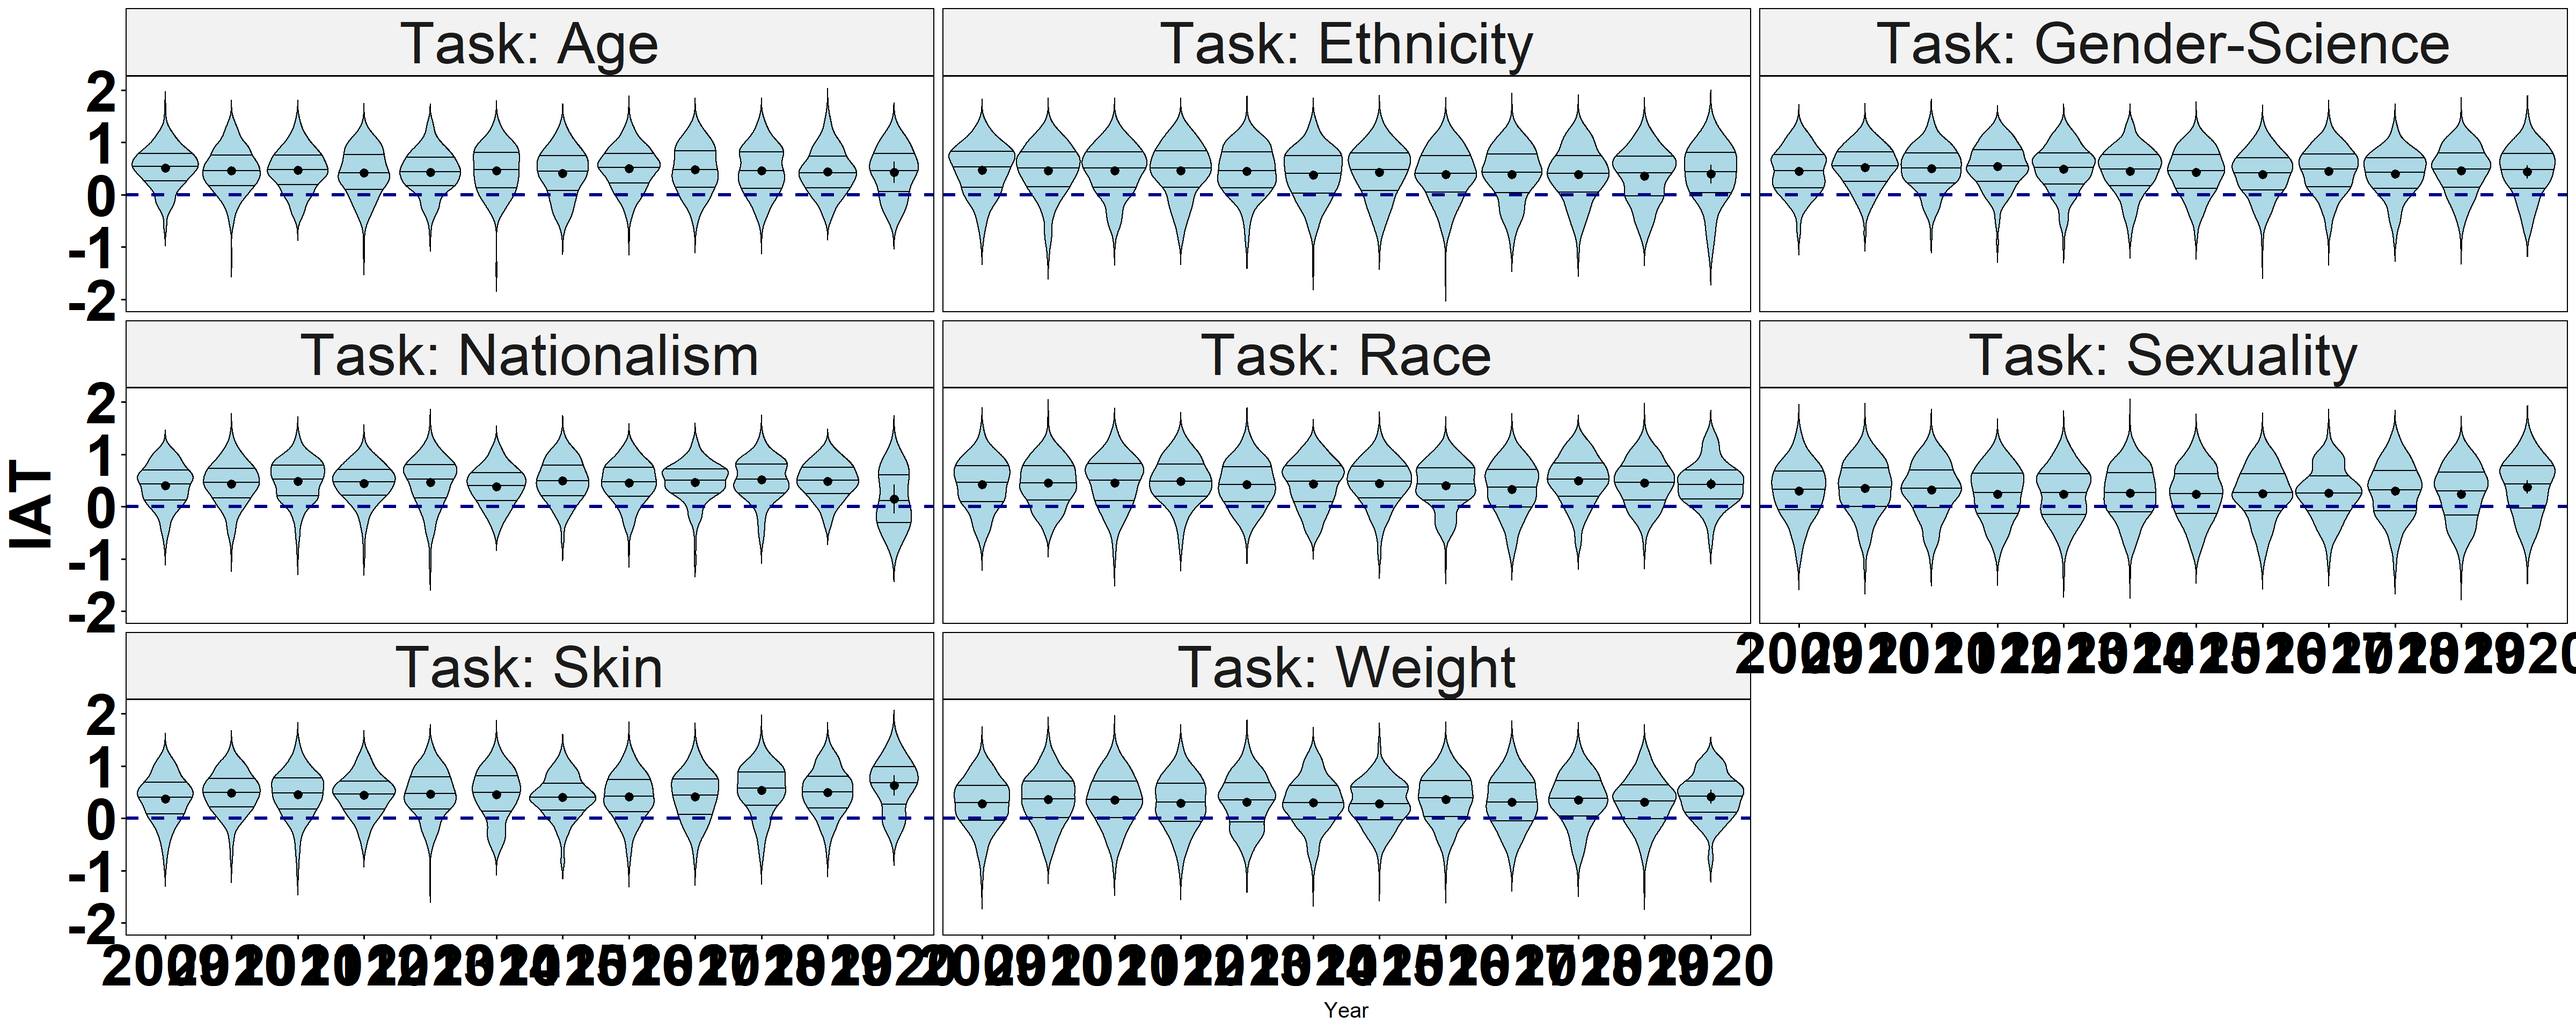
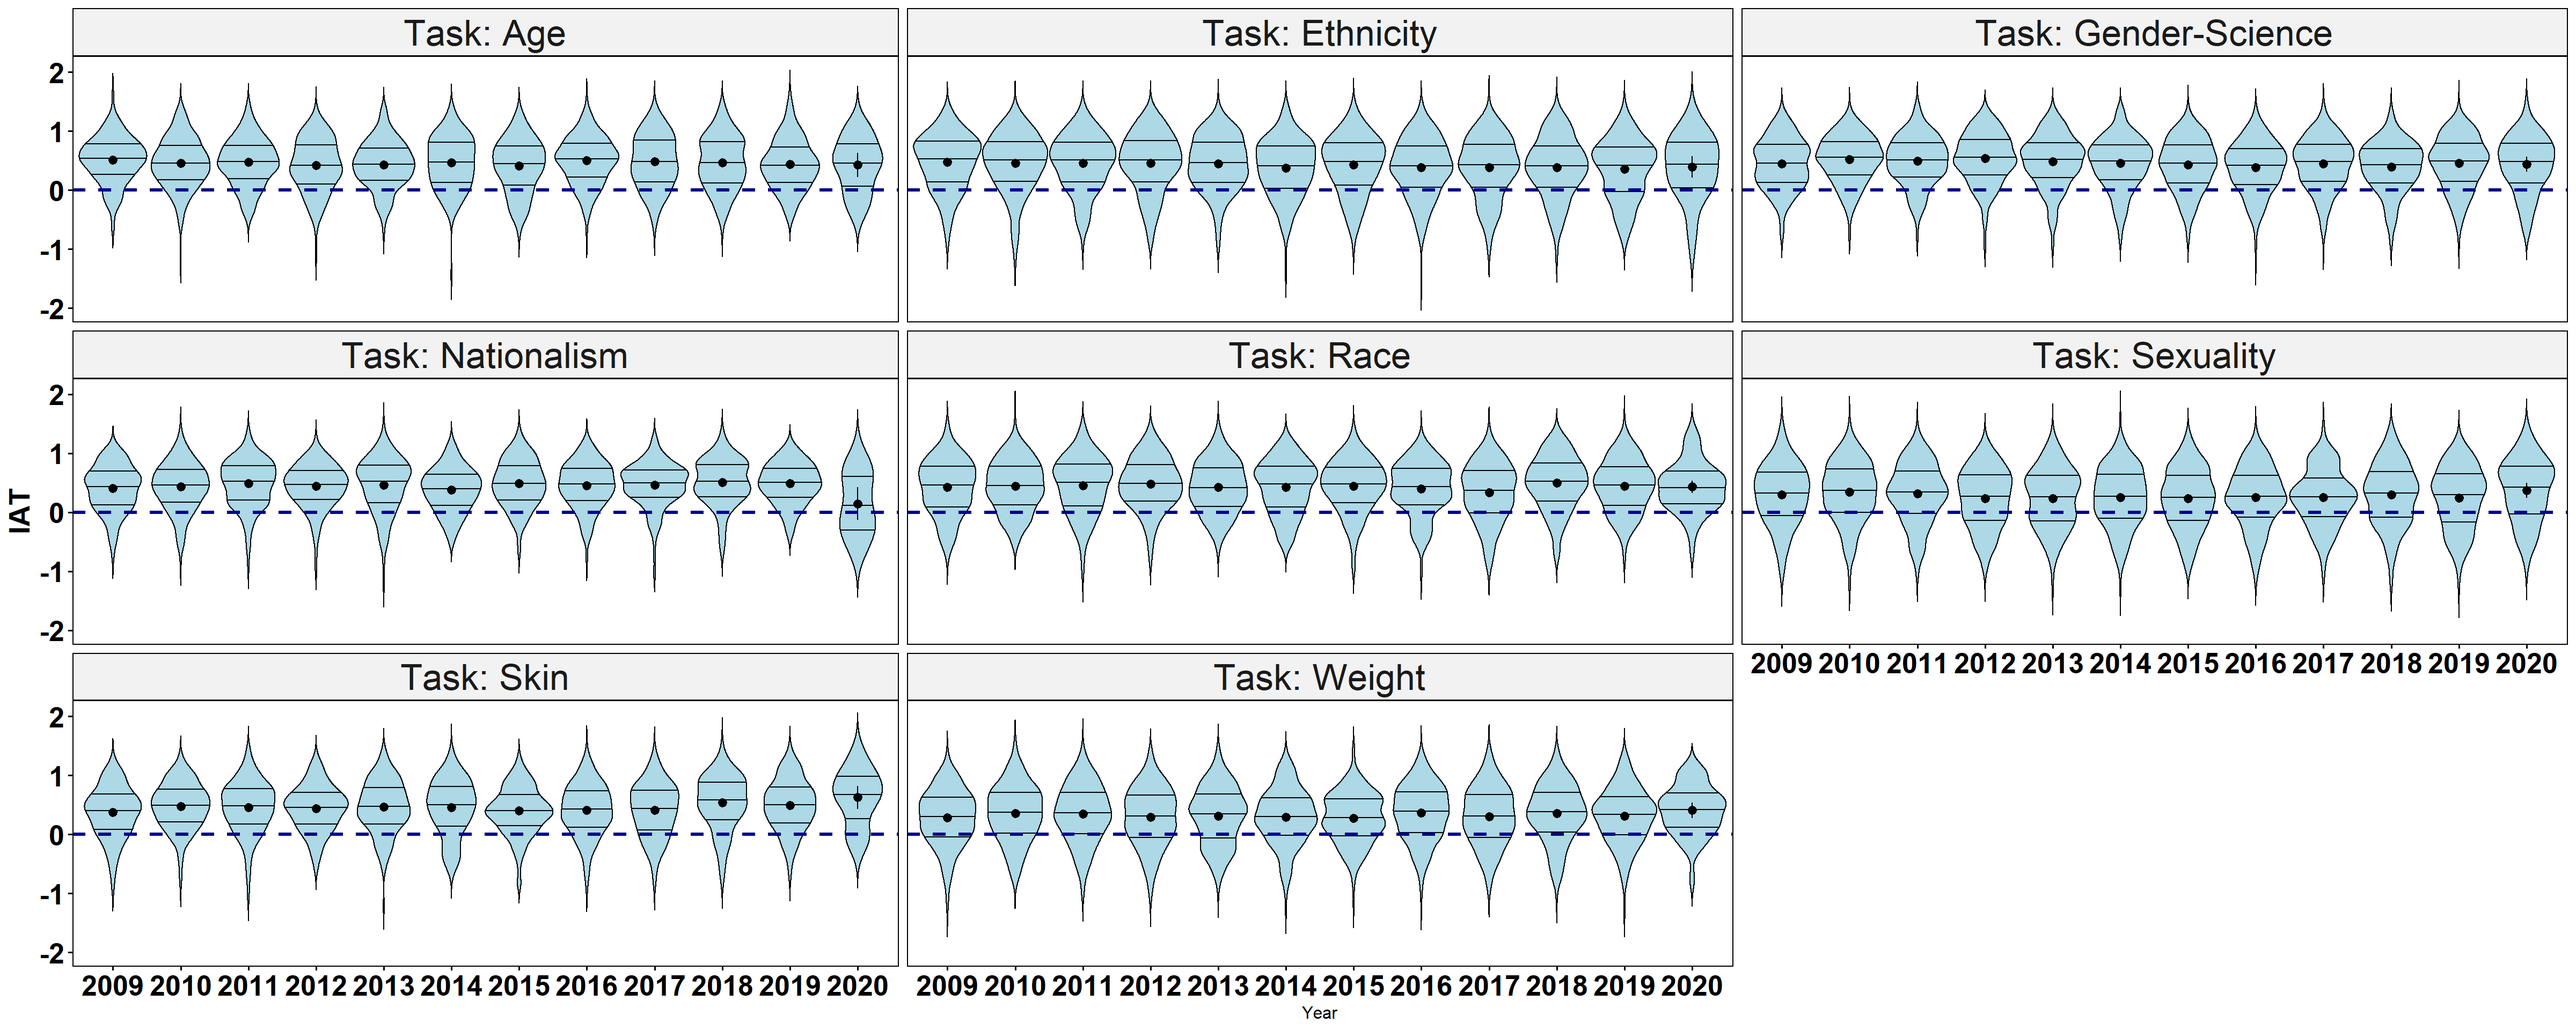
update plots

diff --git a/public/post/biases-in-israel/index.html b/public/post/biases-in-israel/index.html
@@ -59,7 +59,7 @@
   "headline": "Biases in Israel",
   "description" : "Read about the implict and explicit biases in Israel",
   "inLanguage" : "en",
-  "wordCount":  2367 ,
+  "wordCount":  2364 ,
   "datePublished" : "2020-05-20T00:00:00",
   "dateModified" : "2020-05-20T00:00:00",
   "image" : "\/img\/logo.png",
@@ -239,7 +239,7 @@
   
   
   
-    &nbsp;|&nbsp;<i class="fas fa-book"></i>&nbsp;2367&nbsp;words
+    &nbsp;|&nbsp;<i class="fas fa-book"></i>&nbsp;2364&nbsp;words
   
   
     
@@ -510,16 +510,16 @@ all_diff_thermo &lt;- bind_rows(race_diff_thermo, skin_diff_thermo,
 pp &lt;- pp + geom_hline(yintercept=0, linetype=&quot;dashed&quot;, 
                 color = &quot;darkblue&quot;, size=1.2)
 
-pp &lt;- pp + font(&quot;title&quot;, size = 40, color = &quot;black&quot;, face = &quot;bold&quot;)+
-font(&quot;legend.text&quot;, size = 40, color = &quot;black&quot;, face = &quot;bold&quot;)+
-font(&quot;xlab&quot;, size = 15, color = &quot;black&quot;)+
-font(&quot;ylab&quot;, size = 40, color = &quot;black&quot;, face = &quot;bold&quot;)+
-font(&quot;xy.text&quot;, size = 40, color = &quot;black&quot;, face = &quot;bold&quot;)
+pp &lt;- pp + font(&quot;title&quot;, size = 20, color = &quot;black&quot;, face = &quot;bold&quot;)+
+font(&quot;legend.text&quot;, size = 20, color = &quot;black&quot;, face = &quot;bold&quot;)+
+font(&quot;xlab&quot;, size = 12, color = &quot;black&quot;)+
+font(&quot;ylab&quot;, size = 20, color = &quot;black&quot;, face = &quot;bold&quot;)+
+font(&quot;xy.text&quot;, size = 20, color = &quot;black&quot;, face = &quot;bold&quot;)
 pp &lt;- pp +theme(legend.position=&quot;none&quot;)
 
 facet(pp , facet.by = &quot;Task&quot;,
   short.panel.labs = FALSE,   # Allow long labels in panels
-  panel.labs.font = list(size = 40)
+  panel.labs.font = list(size = 25)
 )</code></pre>
 <p><img src="/post/2020-05-20-biases-in-israel.en_files/figure-html/unnamed-chunk-10-1.png" width="2400" /></p>
 </div>
@@ -538,18 +538,17 @@ facet(pp , facet.by = &quot;Task&quot;,
 pp &lt;- pp + geom_hline(yintercept=4, linetype=&quot;dashed&quot;, 
                 color = &quot;darkblue&quot;, size=1.2)
 
-pp &lt;- pp + font(&quot;title&quot;, size = 40, color = &quot;black&quot;, face = &quot;bold&quot;)+
-font(&quot;legend.text&quot;, size = 40, color = &quot;black&quot;, face = &quot;bold&quot;)+
-font(&quot;xlab&quot;, size = 25, color = &quot;black&quot;)+
-font(&quot;ylab&quot;, size = 40, color = &quot;black&quot;, face = &quot;bold&quot;)+
-font(&quot;xy.text&quot;, size = 40, color = &quot;black&quot;, face = &quot;bold&quot;)
+pp &lt;- pp + font(&quot;title&quot;, size = 20, color = &quot;black&quot;, face = &quot;bold&quot;)+
+font(&quot;legend.text&quot;, size = 20, color = &quot;black&quot;, face = &quot;bold&quot;)+
+font(&quot;xlab&quot;, size = 12, color = &quot;black&quot;)+
+font(&quot;ylab&quot;, size = 20, color = &quot;black&quot;, face = &quot;bold&quot;)+
+font(&quot;xy.text&quot;, size = 20, color = &quot;black&quot;, face = &quot;bold&quot;)
 pp &lt;- pp +theme(legend.position=&quot;none&quot;)
 
 facet(pp , facet.by = &quot;Task&quot;,
   short.panel.labs = FALSE,   # Allow long labels in panels
-  panel.labs.font = list(size = 40)
-)</code></pre>
-<p><img src="/post/2020-05-20-biases-in-israel.en_files/figure-html/unnamed-chunk-11-1.png" width="3360" /></p>
+  panel.labs.font = list(size = 25))</code></pre>
+<p><img src="/post/2020-05-20-biases-in-israel.en_files/figure-html/unnamed-chunk-11-1.png" width="2400" /></p>
 </div>
 <div id="self-report-feeling-thermometer-difference" class="section level3">
 <h3>Self-Report: Feeling Thermometer Difference</h3>
@@ -566,18 +565,17 @@ facet(pp , facet.by = &quot;Task&quot;,
 pp &lt;- pp + geom_hline(yintercept=0, linetype=&quot;dashed&quot;, 
                 color = &quot;darkblue&quot;, size=1.2)
 
-pp &lt;- pp + font(&quot;title&quot;, size = 40, color = &quot;black&quot;, face = &quot;bold&quot;)+
-font(&quot;legend.text&quot;, size = 40, color = &quot;black&quot;, face = &quot;bold&quot;)+
-font(&quot;xlab&quot;, size = 25, color = &quot;black&quot;)+
-font(&quot;ylab&quot;, size = 40, color = &quot;black&quot;, face = &quot;bold&quot;)+
-font(&quot;xy.text&quot;, size = 40, color = &quot;black&quot;, face = &quot;bold&quot;)
+pp &lt;- pp + font(&quot;title&quot;, size = 20, color = &quot;black&quot;, face = &quot;bold&quot;)+
+font(&quot;legend.text&quot;, size = 20, color = &quot;black&quot;, face = &quot;bold&quot;)+
+font(&quot;xlab&quot;, size = 12, color = &quot;black&quot;)+
+font(&quot;ylab&quot;, size = 20, color = &quot;black&quot;, face = &quot;bold&quot;)+
+font(&quot;xy.text&quot;, size = 20, color = &quot;black&quot;, face = &quot;bold&quot;)
 pp &lt;- pp +theme(legend.position=&quot;none&quot;)
 
 facet(pp , facet.by = &quot;Task&quot;,
   short.panel.labs = FALSE,   # Allow long labels in panels
-  panel.labs.font = list(size = 40)
-)</code></pre>
-<p><img src="/post/2020-05-20-biases-in-israel.en_files/figure-html/unnamed-chunk-12-1.png" width="3360" /></p>
+  panel.labs.font = list(size = 25))</code></pre>
+<p><img src="/post/2020-05-20-biases-in-israel.en_files/figure-html/unnamed-chunk-12-1.png" width="2400" /></p>
 </div>
 </div>
 <div id="the-ethnicity-iat" class="section level2">
@@ -693,14 +691,12 @@ pp &lt;- ggviolin(ethnic1, x = &quot;ethnic.c&quot;, y = c(&quot;IAT&quot;), com
 pp &lt;- pp + geom_hline(yintercept = 0, linetype = &quot;dashed&quot;, color = &quot;darkblue&quot;, 
     size = 1.2)
 
-pp &lt;- pp + font(&quot;title&quot;, size = 40, color = &quot;black&quot;, face = &quot;bold&quot;) + 
-    font(&quot;legend.text&quot;, size = 40, color = &quot;black&quot;, face = &quot;bold&quot;) + 
-    font(&quot;xlab&quot;, size = 25, color = &quot;black&quot;) + font(&quot;ylab&quot;, size = 40, 
-    color = &quot;black&quot;, face = &quot;bold&quot;) + font(&quot;xy.text&quot;, size = 40, 
+pp &lt;- pp + font(&quot;title&quot;, size = 20, color = &quot;black&quot;, face = &quot;bold&quot;) + 
+    font(&quot;legend.text&quot;, size = 20, color = &quot;black&quot;, face = &quot;bold&quot;) + 
+    font(&quot;xlab&quot;, size = 12, color = &quot;black&quot;) + font(&quot;ylab&quot;, size = 20, 
+    color = &quot;black&quot;, face = &quot;bold&quot;) + font(&quot;xy.text&quot;, size = 20, 
     color = &quot;black&quot;, face = &quot;bold&quot;)
-pp &lt;- pp + theme(legend.position = &quot;none&quot;)
-pp</code></pre>
-<p><img src="/post/2020-05-20-biases-in-israel.en_files/figure-html/unnamed-chunk-14-1.png" width="3360" /></p>
+pp &lt;- pp + theme(legend.position = &quot;none&quot;)</code></pre>
 <p>We can see that, indeed, the implicit bias varies across the different ethnicities, and is weaker for Mizrahi Israelis. Still, <em>all ethnicity groups</em> in the Israeli society show the same direction of bias.</p>
 </div>
 <div id="summary" class="section level2">

diff --git a/content/post/2020-05-20-biases-in-israel.en.html b/content/post/2020-05-20-biases-in-israel.en.html
@@ -273,16 +273,16 @@ all_diff_thermo &lt;- bind_rows(race_diff_thermo, skin_diff_thermo,
 pp &lt;- pp + geom_hline(yintercept=0, linetype=&quot;dashed&quot;, 
                 color = &quot;darkblue&quot;, size=1.2)
 
-pp &lt;- pp + font(&quot;title&quot;, size = 40, color = &quot;black&quot;, face = &quot;bold&quot;)+
-font(&quot;legend.text&quot;, size = 40, color = &quot;black&quot;, face = &quot;bold&quot;)+
-font(&quot;xlab&quot;, size = 15, color = &quot;black&quot;)+
-font(&quot;ylab&quot;, size = 40, color = &quot;black&quot;, face = &quot;bold&quot;)+
-font(&quot;xy.text&quot;, size = 40, color = &quot;black&quot;, face = &quot;bold&quot;)
+pp &lt;- pp + font(&quot;title&quot;, size = 20, color = &quot;black&quot;, face = &quot;bold&quot;)+
+font(&quot;legend.text&quot;, size = 20, color = &quot;black&quot;, face = &quot;bold&quot;)+
+font(&quot;xlab&quot;, size = 12, color = &quot;black&quot;)+
+font(&quot;ylab&quot;, size = 20, color = &quot;black&quot;, face = &quot;bold&quot;)+
+font(&quot;xy.text&quot;, size = 20, color = &quot;black&quot;, face = &quot;bold&quot;)
 pp &lt;- pp +theme(legend.position=&quot;none&quot;)
 
 facet(pp , facet.by = &quot;Task&quot;,
   short.panel.labs = FALSE,   # Allow long labels in panels
-  panel.labs.font = list(size = 40)
+  panel.labs.font = list(size = 25)
 )</code></pre>
 <p><img src="/post/2020-05-20-biases-in-israel.en_files/figure-html/unnamed-chunk-10-1.png" width="2400" /></p>
 </div>
@@ -301,18 +301,17 @@ facet(pp , facet.by = &quot;Task&quot;,
 pp &lt;- pp + geom_hline(yintercept=4, linetype=&quot;dashed&quot;, 
                 color = &quot;darkblue&quot;, size=1.2)
 
-pp &lt;- pp + font(&quot;title&quot;, size = 40, color = &quot;black&quot;, face = &quot;bold&quot;)+
-font(&quot;legend.text&quot;, size = 40, color = &quot;black&quot;, face = &quot;bold&quot;)+
-font(&quot;xlab&quot;, size = 25, color = &quot;black&quot;)+
-font(&quot;ylab&quot;, size = 40, color = &quot;black&quot;, face = &quot;bold&quot;)+
-font(&quot;xy.text&quot;, size = 40, color = &quot;black&quot;, face = &quot;bold&quot;)
+pp &lt;- pp + font(&quot;title&quot;, size = 20, color = &quot;black&quot;, face = &quot;bold&quot;)+
+font(&quot;legend.text&quot;, size = 20, color = &quot;black&quot;, face = &quot;bold&quot;)+
+font(&quot;xlab&quot;, size = 12, color = &quot;black&quot;)+
+font(&quot;ylab&quot;, size = 20, color = &quot;black&quot;, face = &quot;bold&quot;)+
+font(&quot;xy.text&quot;, size = 20, color = &quot;black&quot;, face = &quot;bold&quot;)
 pp &lt;- pp +theme(legend.position=&quot;none&quot;)
 
 facet(pp , facet.by = &quot;Task&quot;,
   short.panel.labs = FALSE,   # Allow long labels in panels
-  panel.labs.font = list(size = 40)
-)</code></pre>
-<p><img src="/post/2020-05-20-biases-in-israel.en_files/figure-html/unnamed-chunk-11-1.png" width="3360" /></p>
+  panel.labs.font = list(size = 25))</code></pre>
+<p><img src="/post/2020-05-20-biases-in-israel.en_files/figure-html/unnamed-chunk-11-1.png" width="2400" /></p>
 </div>
 <div id="self-report-feeling-thermometer-difference" class="section level3">
 <h3>Self-Report: Feeling Thermometer Difference</h3>
@@ -329,18 +328,17 @@ facet(pp , facet.by = &quot;Task&quot;,
 pp &lt;- pp + geom_hline(yintercept=0, linetype=&quot;dashed&quot;, 
                 color = &quot;darkblue&quot;, size=1.2)
 
-pp &lt;- pp + font(&quot;title&quot;, size = 40, color = &quot;black&quot;, face = &quot;bold&quot;)+
-font(&quot;legend.text&quot;, size = 40, color = &quot;black&quot;, face = &quot;bold&quot;)+
-font(&quot;xlab&quot;, size = 25, color = &quot;black&quot;)+
-font(&quot;ylab&quot;, size = 40, color = &quot;black&quot;, face = &quot;bold&quot;)+
-font(&quot;xy.text&quot;, size = 40, color = &quot;black&quot;, face = &quot;bold&quot;)
+pp &lt;- pp + font(&quot;title&quot;, size = 20, color = &quot;black&quot;, face = &quot;bold&quot;)+
+font(&quot;legend.text&quot;, size = 20, color = &quot;black&quot;, face = &quot;bold&quot;)+
+font(&quot;xlab&quot;, size = 12, color = &quot;black&quot;)+
+font(&quot;ylab&quot;, size = 20, color = &quot;black&quot;, face = &quot;bold&quot;)+
+font(&quot;xy.text&quot;, size = 20, color = &quot;black&quot;, face = &quot;bold&quot;)
 pp &lt;- pp +theme(legend.position=&quot;none&quot;)
 
 facet(pp , facet.by = &quot;Task&quot;,
   short.panel.labs = FALSE,   # Allow long labels in panels
-  panel.labs.font = list(size = 40)
-)</code></pre>
-<p><img src="/post/2020-05-20-biases-in-israel.en_files/figure-html/unnamed-chunk-12-1.png" width="3360" /></p>
+  panel.labs.font = list(size = 25))</code></pre>
+<p><img src="/post/2020-05-20-biases-in-israel.en_files/figure-html/unnamed-chunk-12-1.png" width="2400" /></p>
 </div>
 </div>
 <div id="the-ethnicity-iat" class="section level2">
@@ -456,14 +454,12 @@ pp &lt;- ggviolin(ethnic1, x = &quot;ethnic.c&quot;, y = c(&quot;IAT&quot;), com
 pp &lt;- pp + geom_hline(yintercept = 0, linetype = &quot;dashed&quot;, color = &quot;darkblue&quot;, 
     size = 1.2)
 
-pp &lt;- pp + font(&quot;title&quot;, size = 40, color = &quot;black&quot;, face = &quot;bold&quot;) + 
-    font(&quot;legend.text&quot;, size = 40, color = &quot;black&quot;, face = &quot;bold&quot;) + 
-    font(&quot;xlab&quot;, size = 25, color = &quot;black&quot;) + font(&quot;ylab&quot;, size = 40, 
-    color = &quot;black&quot;, face = &quot;bold&quot;) + font(&quot;xy.text&quot;, size = 40, 
+pp &lt;- pp + font(&quot;title&quot;, size = 20, color = &quot;black&quot;, face = &quot;bold&quot;) + 
+    font(&quot;legend.text&quot;, size = 20, color = &quot;black&quot;, face = &quot;bold&quot;) + 
+    font(&quot;xlab&quot;, size = 12, color = &quot;black&quot;) + font(&quot;ylab&quot;, size = 20, 
+    color = &quot;black&quot;, face = &quot;bold&quot;) + font(&quot;xy.text&quot;, size = 20, 
     color = &quot;black&quot;, face = &quot;bold&quot;)
-pp &lt;- pp + theme(legend.position = &quot;none&quot;)
-pp</code></pre>
-<p><img src="/post/2020-05-20-biases-in-israel.en_files/figure-html/unnamed-chunk-14-1.png" width="3360" /></p>
+pp &lt;- pp + theme(legend.position = &quot;none&quot;)</code></pre>
 <p>We can see that, indeed, the implicit bias varies across the different ethnicities, and is weaker for Mizrahi Israelis. Still, <em>all ethnicity groups</em> in the Israeli society show the same direction of bias.</p>
 </div>
 <div id="summary" class="section level2">

diff --git a/public/categories/age-iat/index.html b/public/categories/age-iat/index.html
@@ -215,7 +215,7 @@
   
   
   
-    &nbsp;|&nbsp;<i class="fas fa-book"></i>&nbsp;2367&nbsp;words
+    &nbsp;|&nbsp;<i class="fas fa-book"></i>&nbsp;2364&nbsp;words
   
   
     

diff --git a/public/categories/ethnicity-iat/index.html b/public/categories/ethnicity-iat/index.html
@@ -215,7 +215,7 @@
   
   
   
-    &nbsp;|&nbsp;<i class="fas fa-book"></i>&nbsp;2367&nbsp;words
+    &nbsp;|&nbsp;<i class="fas fa-book"></i>&nbsp;2364&nbsp;words
   
   
     

diff --git a/public/categories/gender-science-iat/index.html b/public/categories/gender-science-iat/index.html
@@ -215,7 +215,7 @@
   
   
   
-    &nbsp;|&nbsp;<i class="fas fa-book"></i>&nbsp;2367&nbsp;words
+    &nbsp;|&nbsp;<i class="fas fa-book"></i>&nbsp;2364&nbsp;words
   
   
     

diff --git a/public/categories/iat/index.html b/public/categories/iat/index.html
@@ -215,7 +215,7 @@
   
   
   
-    &nbsp;|&nbsp;<i class="fas fa-book"></i>&nbsp;2367&nbsp;words
+    &nbsp;|&nbsp;<i class="fas fa-book"></i>&nbsp;2364&nbsp;words
   
   
     

diff --git a/public/categories/israel/index.html b/public/categories/israel/index.html
@@ -215,7 +215,7 @@
   
   
   
-    &nbsp;|&nbsp;<i class="fas fa-book"></i>&nbsp;2367&nbsp;words
+    &nbsp;|&nbsp;<i class="fas fa-book"></i>&nbsp;2364&nbsp;words
   
   
     

diff --git a/public/categories/nationalism-iat/index.html b/public/categories/nationalism-iat/index.html
@@ -215,7 +215,7 @@
   
   
   
-    &nbsp;|&nbsp;<i class="fas fa-book"></i>&nbsp;2367&nbsp;words
+    &nbsp;|&nbsp;<i class="fas fa-book"></i>&nbsp;2364&nbsp;words
   
   
     

diff --git a/public/categories/race-iat/index.html b/public/categories/race-iat/index.html
@@ -215,7 +215,7 @@
   
   
   
-    &nbsp;|&nbsp;<i class="fas fa-book"></i>&nbsp;2367&nbsp;words
+    &nbsp;|&nbsp;<i class="fas fa-book"></i>&nbsp;2364&nbsp;words
   
   
     

diff --git a/public/categories/sexuality-iat/index.html b/public/categories/sexuality-iat/index.html
@@ -215,7 +215,7 @@
   
   
   
-    &nbsp;|&nbsp;<i class="fas fa-book"></i>&nbsp;2367&nbsp;words
+    &nbsp;|&nbsp;<i class="fas fa-book"></i>&nbsp;2364&nbsp;words
   
   
     

diff --git a/public/categories/skin-iat/index.html b/public/categories/skin-iat/index.html
@@ -215,7 +215,7 @@
   
   
   
-    &nbsp;|&nbsp;<i class="fas fa-book"></i>&nbsp;2367&nbsp;words
+    &nbsp;|&nbsp;<i class="fas fa-book"></i>&nbsp;2364&nbsp;words
   
   
     

diff --git a/public/categories/weight-iat/index.html b/public/categories/weight-iat/index.html
@@ -215,7 +215,7 @@
   
   
   
-    &nbsp;|&nbsp;<i class="fas fa-book"></i>&nbsp;2367&nbsp;words
+    &nbsp;|&nbsp;<i class="fas fa-book"></i>&nbsp;2364&nbsp;words
   
   
     
